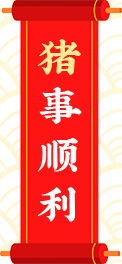
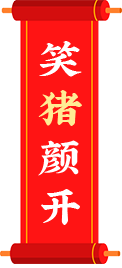
..

diff --git a/blessing/selectText.html b/blessing/selectText.html
@@ -31,10 +31,10 @@
         <img src="imgs/5t.png" alt="">
     </div>
     <div class="sele seleThree hide">
-        <img src="imgs/4t.png" alt="">
+        <img src="imgs/6t.png" alt="">
     </div>
     <div class="sele seleFour hide">
-        <img src="imgs/4t.png" alt="">
+        <img src="imgs/7t.png" alt="">
     </div>
 
     <div class="shadow scs-hide"></div>
